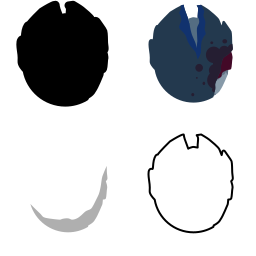
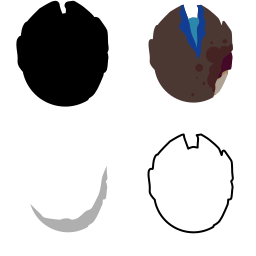
Eye emotes, tweaked wartule and dominant

Changed region(s): [[0.5625, 0.0, 0.9062, 0.4062]]

diff --git a/src/game/server/gamemodes/zomb.cpp b/src/game/server/gamemodes/zomb.cpp
@@ -13,6 +13,7 @@
 
 /* TODO:
  * - Boss zombies?
+ * - Tweak wartule
  */
 
 static char msgBuff__[256];
@@ -49,7 +50,8 @@ static char msgBuff__[256];
 #define SPAWN_INTERVAL (SecondsToTick(0.5f))
 #define WAVE_WAIT_TIME (SecondsToTick(10))
 
-#define WARTULE_GRENADE_DMG 4
+#define BERSERKER_ENRAGE_RADIUS 300.f
+#define WARTULE_GRENADE_DMG 2
 
 #define ARMOR_DMG_REDUCTION 0.25f
 #define HEALING_INTERVAL (SecondsToTick(0.5f))
@@ -112,7 +114,7 @@ static const f32 g_ZombAttackSpeed[] = {
 	2.0f, // ZTYPE_HUNTER
 	0.6f, // ZTYPE_DOMINANT
 	4.5f, // ZTYPE_BERSERKER
-	3.5f // ZTYPE_WARTULE
+	2.0f // ZTYPE_WARTULE
 };
 
 static const i32 g_ZombAttackDmg[] = {
@@ -231,6 +233,7 @@ void CGameControllerZOMB::SpawnZombie(i32 zid, u8 type, bool isElite, u32 enrage
 	m_ZombChargingClock[zid] = -1;
 	m_ZombHealClock[zid] = 0;
 	m_ZombLastShotDir[zid] = vec2(-1, 0);
+	m_ZombEyesClock[zid] = -1;
 
 	if(needSendInfos) {
 		for(u32 i = 0; i < MAX_SURVIVORS; ++i) {
@@ -763,8 +766,6 @@ void CGameControllerZOMB::SendZombieInfos(i32 zid, i32 CID)
 
 		case ZTYPE_DOMINANT:
 			nci.m_apSkinPartNames[SKINPART_BODY] = "dominant";
-			nci.m_apSkinPartNames[SKINPART_EYES] = "dominant_eyes";
-			handFeetColor = PackColor(155, 182, 39); // blueish
 			break;
 
 		case ZTYPE_BERSERKER:
@@ -774,7 +775,6 @@ void CGameControllerZOMB::SendZombieInfos(i32 zid, i32 CID)
 
 		case ZTYPE_WARTULE:
 			nci.m_apSkinPartNames[SKINPART_BODY] = "wartule";
-			handFeetColor = PackColor(202, 172, 28); // purple;
 			break;
 
 		default: break;
@@ -939,6 +939,7 @@ void CGameControllerZOMB::HandleBoomer(u32 zid, f32 targetDist, bool targetLOS)
 		m_ZombHookClock[zid] = SecondsToTick(1.f);
 		// send some love
 		GameServer()->SendEmoticon(zombCID, 2);
+		ChangeEyes(zid, EMOTE_HAPPY, 3.f);
 	}
 }
 
@@ -1142,13 +1143,6 @@ void CGameControllerZOMB::HandleDominant(u32 zid, const vec2& targetPos, f32 tar
 			GameServer()->CreateSound(m_ZombCharCore[zid].m_Pos, SOUND_LASER_FIRE);
 			CreateLaser(m_ZombCharCore[zid].m_Pos, targetPos);
 
-			// pull a bit
-			vec2 pullDir = normalize(m_ZombCharCore[zid].m_Pos - targetPos);
-			CCharacterCore* pTargetCore = GameServer()->m_World.m_Core.m_apCharacters[m_ZombSurvTarget[zid]];
-			if(pTargetCore) {
-				pTargetCore->m_Vel += pullDir * 20.f;
-			}
-
 			i32 dmg = g_ZombAttackDmg[m_ZombType[zid]];
 			if(m_ZombBuff[zid]&BUFF_ELITE) {
 				dmg *= 2;
@@ -1173,7 +1167,7 @@ void CGameControllerZOMB::HandleBerserker(u32 zid)
 		}
 
 		// enrage nearby zombies
-		if(distance(m_ZombCharCore[zid].m_Pos, m_ZombCharCore[i].m_Pos) < 150.f) {
+		if(distance(m_ZombCharCore[zid].m_Pos, m_ZombCharCore[i].m_Pos) < BERSERKER_ENRAGE_RADIUS) {
 			m_ZombEnrageClock[i] = 1;
 		}
 	}
@@ -1184,8 +1178,12 @@ void CGameControllerZOMB::HandleWartule(u32 zid, const vec2& targetPos, f32 targ
 	m_ZombInput[zid].m_Hook = 0; // wartules don't hook
 
 	// throw grenades at people
-	if(targetDist > 80.f && targetLOS && targetDist < 500.f) {
+	if(targetDist > 80.f && targetLOS && targetDist < 350.f) {
 		m_ZombActiveWeapon[zid] = WEAPON_GRENADE;
+		// flee! :s (for 1 s)
+		m_ZombDestination[zid] = -targetPos;
+		m_ZombPathFindClock[zid] = SecondsToTick(1.f);
+		ChangeEyes(zid, EMOTE_PAIN, 1.f);
 
 		if(m_ZombAttackClock[zid] <= 0) {
 			GameServer()->CreateSound(m_ZombCharCore[zid].m_Pos, SOUND_GRENADE_FIRE);
@@ -1196,11 +1194,11 @@ void CGameControllerZOMB::HandleWartule(u32 zid, const vec2& targetPos, f32 targ
 			}
 
 			f32 shootAngle = angle(targetPos - m_ZombCharCore[zid].m_Pos);
-			shootAngle += (f32)RandInt(-30, 30) * pi / 180.f;
+			shootAngle += (f32)RandInt(-15, 15) * pi / 180.f;
 			vec2 shootDir = direction(shootAngle);
 
 			CreateProjectile(m_ZombCharCore[zid].m_Pos, shootDir,
-							 WEAPON_GRENADE, dmg, ZombCID(zid));
+							 WEAPON_GRENADE, dmg, ZombCID(zid), SecondsToTick(0.2f));
 
 			m_ZombLastShotDir[zid] = shootDir;
 			m_ZombAttackClock[zid] = SecondsToTick(1.f / g_ZombAttackSpeed[m_ZombType[zid]]);
@@ -1709,12 +1707,13 @@ void CGameControllerZOMB::CreateLaser(vec2 from, vec2 to)
 	m_LaserList[id].tick = m_Tick;
 }
 
-void CGameControllerZOMB::CreateProjectile(vec2 pos, vec2 dir, i32 type, i32 dmg, i32 owner)
+void CGameControllerZOMB::CreateProjectile(vec2 pos, vec2 dir, i32 type, i32 dmg, i32 owner, i32 lifespan)
 {
 	u32 id = m_ProjectileCount++;
 	m_ProjectileList[id].id = m_ProjectileID++;
 	m_ProjectileList[id].startPos = pos;
 	m_ProjectileList[id].startTick = m_Tick;
+	m_ProjectileList[id].lifespan = lifespan;
 	m_ProjectileList[id].dir = dir;
 	m_ProjectileList[id].type = type;
 	m_ProjectileList[id].dmg = dmg;
@@ -1745,12 +1744,25 @@ void CGameControllerZOMB::TickProjectiles()
 	u32 toDeleteCount = 0;
 
 	for(u32 i = 0; i < m_ProjectileCount; ++i) {
+
+
 		f32 pt = (m_Tick - m_ProjectileList[i].startTick - 1)/(f32)SERVER_TICK_SPEED;
 		f32 ct = (m_Tick - m_ProjectileList[i].startTick)/(f32)SERVER_TICK_SPEED;
 		vec2 prevPos = CalcPos(m_ProjectileList[i].startPos, m_ProjectileList[i].dir,
 							   m_ProjectileList[i].curvature, m_ProjectileList[i].speed, pt);
 		vec2 curPos = CalcPos(m_ProjectileList[i].startPos, m_ProjectileList[i].dir,
 							  m_ProjectileList[i].curvature, m_ProjectileList[i].speed, ct);
+
+		if(m_ProjectileList[i].lifespan-- <= 0) {
+			if(m_ProjectileList[i].type == WEAPON_GRENADE) {
+				CreateExplosion(curPos, 48.f, 135.f, 12.f, m_ProjectileList[i].dmg,
+								m_ProjectileList[i].ownerCID);
+			}
+
+			toDelete[toDeleteCount++] = i;
+			continue;
+		}
+
 		bool collided = (GameServer()->Collision()->IntersectLine(prevPos, curPos, &curPos, 0) != 0);
 
 		// out of bounds
@@ -1758,14 +1770,16 @@ void CGameControllerZOMB::TickProjectiles()
 		i32 ry = round_to_int(curPos.y) / 32;
 		if(rx < -200 || rx >= (i32)m_MapWidth+200 ||
 		   ry < -200 || ry >= (i32)m_MapHeight+200) {
-			collided = true;
+			toDelete[toDeleteCount++] = i;
+			continue;
 		}
 
-		bool deleted = false;
+
 		if(collided && m_ProjectileList[i].type == WEAPON_GRENADE) {
 			CreateExplosion(curPos, 48.f, 135.f, 12.f, m_ProjectileList[i].dmg,
 							m_ProjectileList[i].ownerCID);
-			deleted = true;
+			toDelete[toDeleteCount++] = i;
+			continue;
 		}
 
 
@@ -1776,11 +1790,8 @@ void CGameControllerZOMB::TickProjectiles()
 								m_ProjectileList[i].ownerCID);
 
 			}
-			deleted = true;
-		}
-
-		if(deleted) {
 			toDelete[toDeleteCount++] = i;
+			continue;
 		}
 	}
 
@@ -1852,6 +1863,12 @@ void CGameControllerZOMB::CreateExplosion(vec2 pos, f32 inner, f32 outer, f32 fo
 		m_ZombHookClock[z] = SecondsToTick(1);
 		m_ZombInput[z].m_Hook = 0;
 	}
+}
+
+void CGameControllerZOMB::ChangeEyes(i32 zid, i32 type, f32 time)
+{
+	m_ZombEyes[zid] = type;
+	m_ZombEyesClock[zid] = SecondsToTick(time);
 }
 
 void CGameControllerZOMB::TickReviveCtf()
@@ -2086,6 +2103,7 @@ void CGameControllerZOMB::Tick()
 		--m_ZombHookClock[i];
 		--m_ZombChargeClock[i];
 		--m_ZombHealClock[i];
+		--m_ZombEyesClock[i];
 
 		// auras
 		if(domninantAura && m_ZombType[i] != ZTYPE_DOMINANT) {
@@ -2318,9 +2336,9 @@ void CGameControllerZOMB::Snap(i32 SnappingClientID)
 		if(m_ZombBuff[i]&BUFF_ENRAGED) {
 			pCharacter->m_Emote = EMOTE_SURPRISE;
 		}
-		// boomer found his soulmate
-		if(m_ZombType[i] == ZTYPE_BOOMER && m_ZombExplodeClock[i] > 0) {
-			pCharacter->m_Emote = EMOTE_HAPPY;
+		// eye emote
+		if(m_ZombEyesClock[i] > 0) {
+			pCharacter->m_Emote = m_ZombEyes[i];
 		}
 
 		pCharacter->m_TriggeredEvents = m_ZombCharCore[i].m_TriggeredEvents;
@@ -2552,7 +2570,7 @@ int CGameControllerZOMB::OnCharacterDeath(CCharacter* pVictim, CPlayer* pKiller,
 void CGameControllerZOMB::ZombTakeDmg(i32 CID, vec2 Force, i32 Dmg, int From, i32 Weapon)
 {
 	// don't take damage from other zombies
-	if(IsZombie(From)) {
+	if(IsZombie(From) || Dmg <= 0) {
 		return;
 	}
 
@@ -2586,4 +2604,6 @@ void CGameControllerZOMB::ZombTakeDmg(i32 CID, vec2 Force, i32 Dmg, int From, i3
 	}
 
 	m_ZombCharCore[zid].m_Vel += Force * g_ZombKnockbackMultiplier[m_ZombType[zid]];
+
+	ChangeEyes(zid, EMOTE_PAIN, 1.f);
 }

diff --git a/src/game/server/gamemodes/zomb.h b/src/game/server/gamemodes/zomb.h
@@ -56,6 +56,9 @@ class CGameControllerZOMB : public IGameController
 
 	vec2 m_ZombLastShotDir[MAX_ZOMBS];
 
+	i32 m_ZombEyes[MAX_ZOMBS];
+	i32 m_ZombEyesClock[MAX_ZOMBS];
+
 	char m_MapName[128];
 	u8 m_Map[MAX_MAP_SIZE];
 	u32 m_MapWidth;
@@ -108,7 +111,7 @@ class CGameControllerZOMB : public IGameController
 	struct Projectile {
 		vec2 startPos;
 		vec2 dir;
-		i32 startTick;
+		i32 startTick, lifespan;
 		i32 type, dmg, ownerCID;
 		f32 curvature, speed;
 		u32 id;
@@ -175,9 +178,11 @@ class CGameControllerZOMB : public IGameController
 	static void ConLoadWaveFile(IConsole::IResult *pResult, void *pUserData);
 
 	void CreateLaser(vec2 from, vec2 to);
-	void CreateProjectile(vec2 pos, vec2 dir, i32 type, i32 dmg, i32 owner);
+	void CreateProjectile(vec2 pos, vec2 dir, i32 type, i32 dmg, i32 owner, i32 lifespan);
 	void TickProjectiles();
 	void CreateExplosion(vec2 pos, f32 inner, f32 outer, f32 force, i32 dmg, i32 ownerCID);
+
+	void ChangeEyes(i32 zid, i32 type, f32 time);
 
 public:
 	CGameControllerZOMB(class CGameContext *pGameServer);
